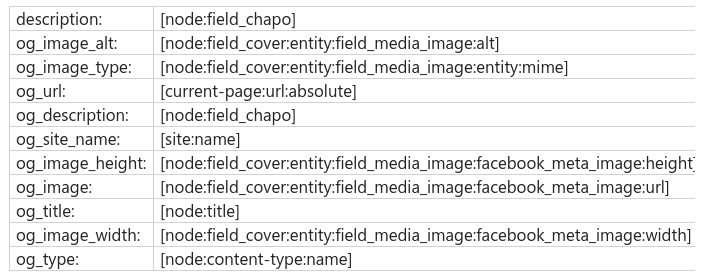
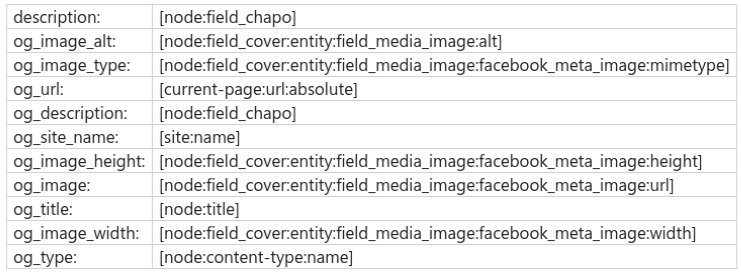
open graph

Changed region(s): [[0.0, 0.0, 0.9958, 0.9963]]

diff --git a/Pages/Modules extensions/Modules_extensions.html b/Pages/Modules extensions/Modules_extensions.html
@@ -279,6 +279,8 @@
       <p>Puis dans metatag</p>
       <pre>admin/config/search/metatag</pre>
 
+      <p>Pour connaitre la liste des tokens admin/help/token</p>
+
       <p>Choisir le contenu (par exemple) --> modifier</p>
       <p>dfans open graph ajouter les tokens ue l'on souhaite pour l'image</p>
       <p>On choisira le field_image du node</p>
@@ -292,8 +294,11 @@
       <pre>[node:field_visual:entity:field_media_image:alt]</pre>
 
       <p>petit resumé des open graph config</p>
+      <p>config pour les news</p>
       <img src="./images_modules_extensions/open_graph_config.png" alt="">
 
+      <p>config pour le global</p>
+      <img src="./images_modules_extensions/global_config_meta.png" alt="">
 
     </article>
 
